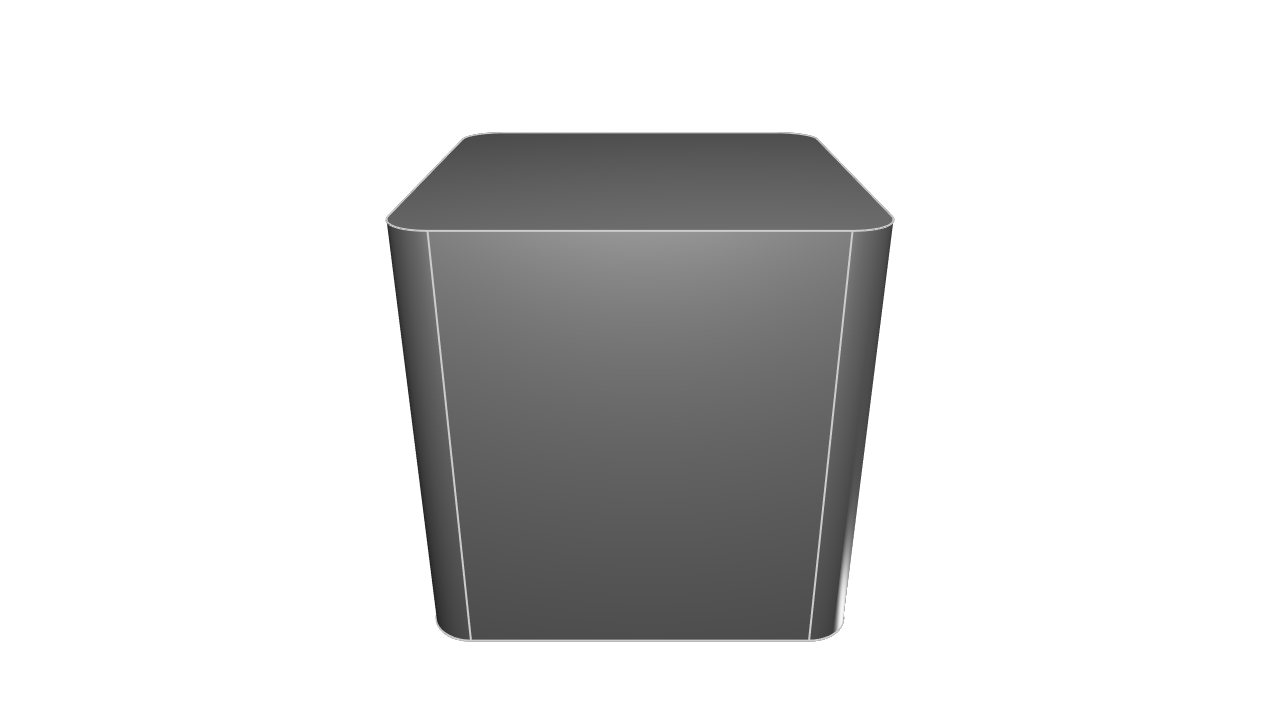
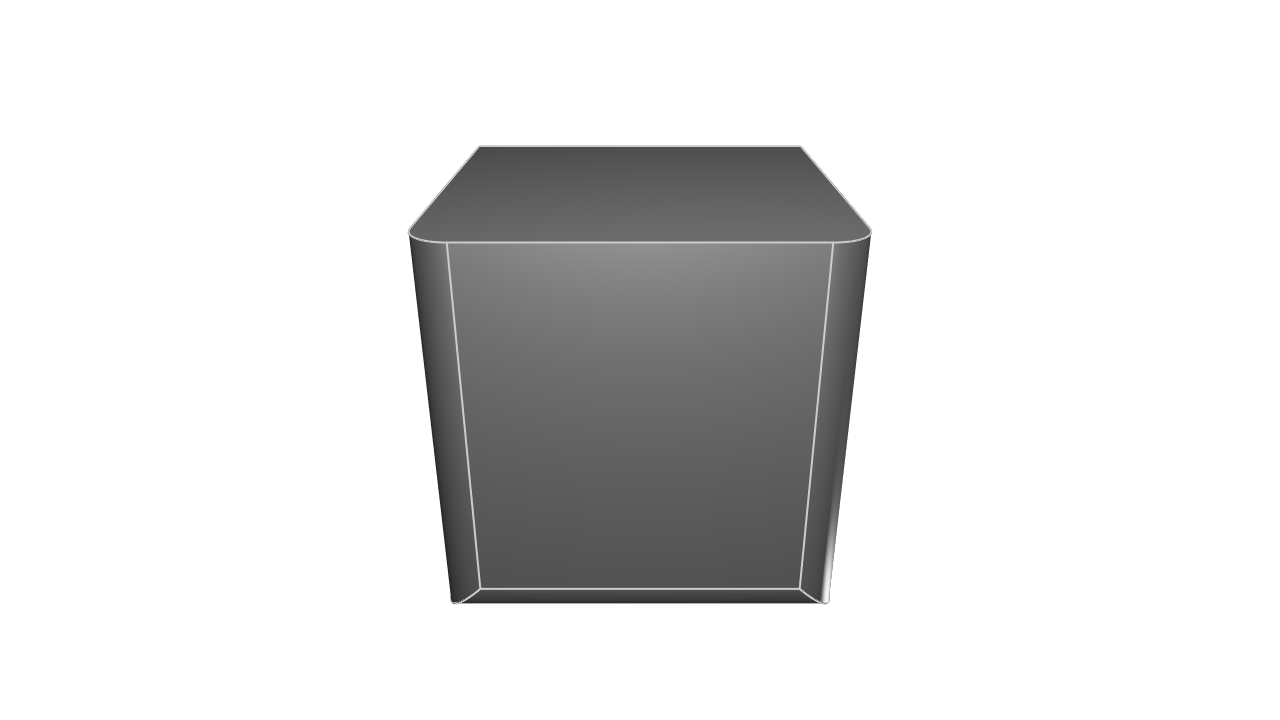
Fix typo in tags.md around images

Changed region(s): [[0.2812, 0.1833, 0.7188, 0.9167]]

diff --git a/kcl-book/src/tags.md b/kcl-book/src/tags.md
@@ -145,7 +145,7 @@ cube = startSketchOn(XY)
 Here, we filleted the bottom side `a` just like we did before. But we've also filleted the sides adjacent to it. We can use a similar trick to fillet all four vertical side edges:
 
 
-```kcl=cube_next_prev_fillets
+```kcl=cube_next_prev_fillets_all_sides
 length = 20
 cube = startSketchOn(XY)
   |> startProfile(at = [-length, -length])
@@ -165,6 +165,8 @@ cube = startSketchOn(XY)
        ],
      )
 ```
+
+![A cube with two side fillets and one bottom fillet](images/dynamic/cube_next_prev_fillets_all_sides.png)
 
 ## Chamfers
 
